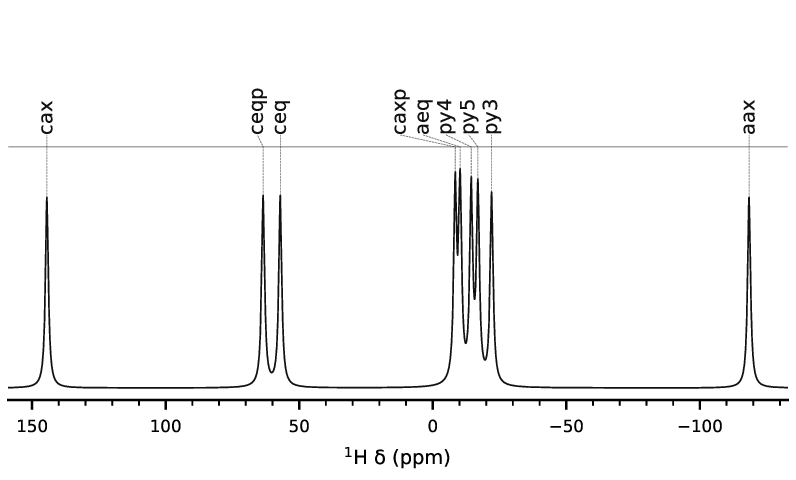
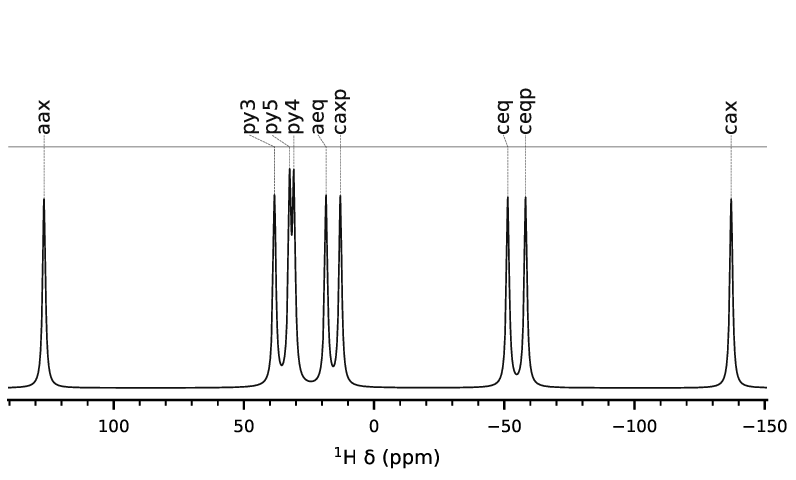
docs: use B20 = -100 cm^-1 in the Dy tutorial and regenerate spectra
Switch the crystal-field parameter to B20 = -100 cm^-1 in both prediction
workflows and regenerate the predicted-spectrum figures. The negative B20
mirrors the pseudocontact pattern (aax now at +130 ppm, cax at -140 ppm);
captions and the quoted shift range updated accordingly.

diff --git a/docs/source/tutorials/dy_point_dipole.rst b/docs/source/tutorials/dy_point_dipole.rst
@@ -217,7 +217,7 @@ analogue, one value per chemical group (ppm):
 The standard prediction workflow computes paramagnetic :sup:`1`\ H shifts from
 the structure and a susceptibility tensor. Here the susceptibility is not read
 from a file but **generated from a single crystal-field parameter**, the
-second-rank axial Stevens parameter B²₀ (set to 100 cm⁻¹), using Bleaney theory.
+second-rank axial Stevens parameter B²₀ (set to −100 cm⁻¹), using Bleaney theory.
 Create the configuration file ``run.yml`` next to the ``data/`` folder:
 
 .. code-block:: yaml
@@ -247,7 +247,7 @@ Create the configuration file ``run.yml`` next to the ``data/`` folder:
    susceptibility:
      method: bleaney
      bleaney:
-       B20: 100.0
+       B20: -100.0
        B22: 0.0
        alpha: 0.0
        beta: 0.0
@@ -282,7 +282,7 @@ The blocks have the following roles:
 ``susceptibility``
    ``method: bleaney`` builds the susceptibility tensor from the second-rank
    crystal-field parameters using Bleaney theory, instead of reading it from a
-   file. B²₀ sets the axial zero-field splitting (D = 3·B²₀; here 100 cm⁻¹),
+   file. B²₀ sets the axial zero-field splitting (D = 3·B²₀; here −100 cm⁻¹),
    B²₂ the rhombic part, and α/β/γ the orientation of the crystal-field frame;
    the isotropic Landé g\ :sub:`J` is derived from the Dy(III) quantum numbers
    above. ``temperatures`` gives the temperature(s) at which shifts are
@@ -370,7 +370,7 @@ The predicted spectrum gives a quick visual check of the result:
 
    ``pred_spectrum_302.15_K.pdf`` — the predicted :sup:`1`\ H spectrum. Each
    chemical group appears at its averaged paramagnetic shift, spanning roughly
-   +145 to −110 ppm. Because no relaxation model is set, the peaks carry the
+   +130 to −140 ppm. Because no relaxation model is set, the peaks carry the
    cosmetic display width described above.
 
 2. Adding a relaxation model
@@ -410,7 +410,7 @@ temperature the rates apply to:
    susceptibility:
      method: bleaney
      bleaney:
-       B20: 100.0
+       B20: -100.0
        B22: 0.0
        alpha: 0.0
        beta: 0.0
@@ -484,8 +484,8 @@ With the relaxation model the predicted peaks now carry physical linewidths:
    :align: center
 
    ``pred_spectrum_302.15_K.pdf`` with the relaxation model. Compare with
-   workflow 1: the peaks farthest from the diamagnetic region (``cax`` at
-   +145 ppm, ``aax`` at −110 ppm) are strongly broadened and shortened by
+   workflow 1: the peaks farthest from the diamagnetic region (``aax`` at
+   +130 ppm, ``cax`` at −140 ppm) are strongly broadened and shortened by
    Curie/R\ :sub:`2` relaxation, while the peaks near the centre stay sharp —
    the position-dependent linewidths the cosmetic display width could not show.
 
